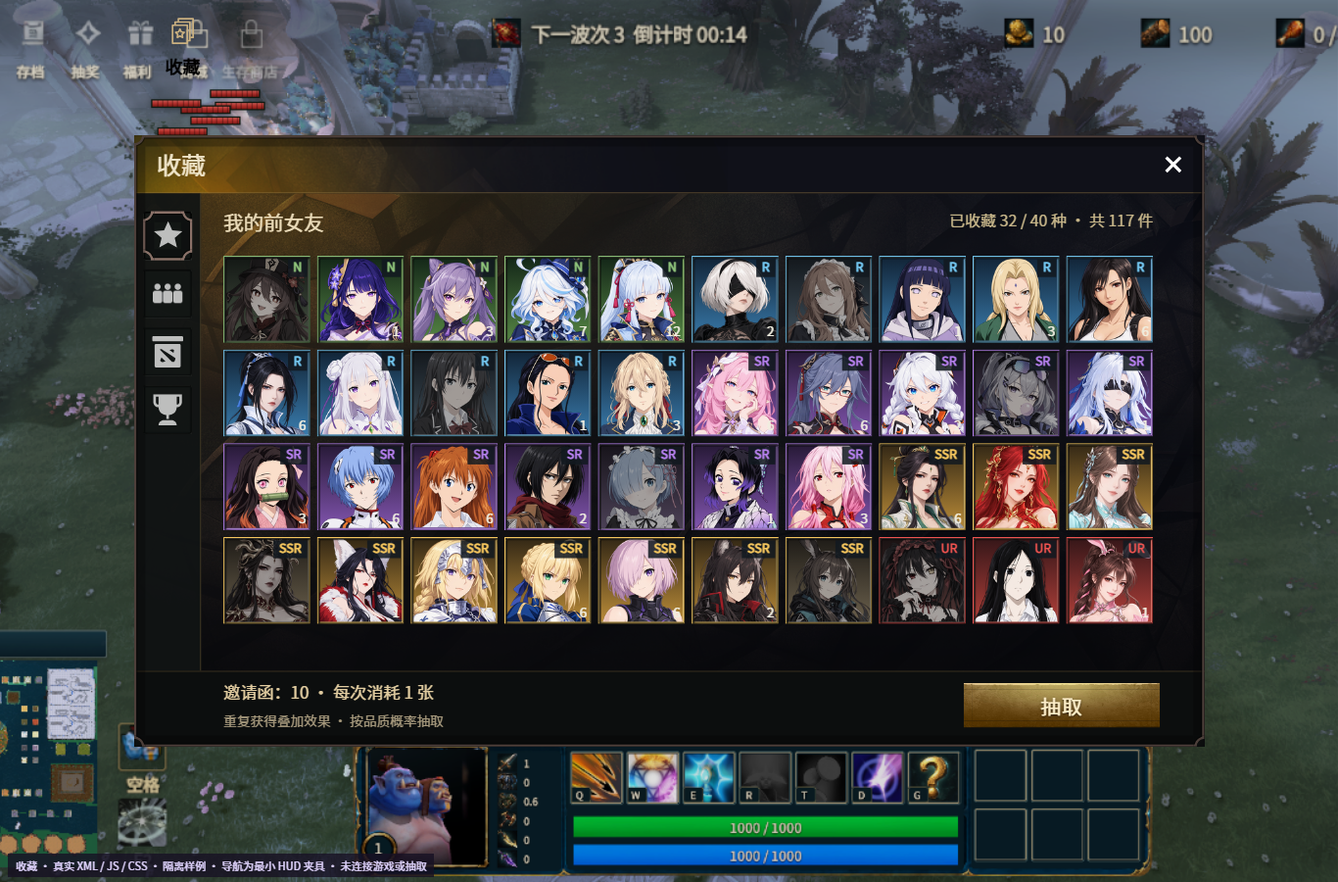
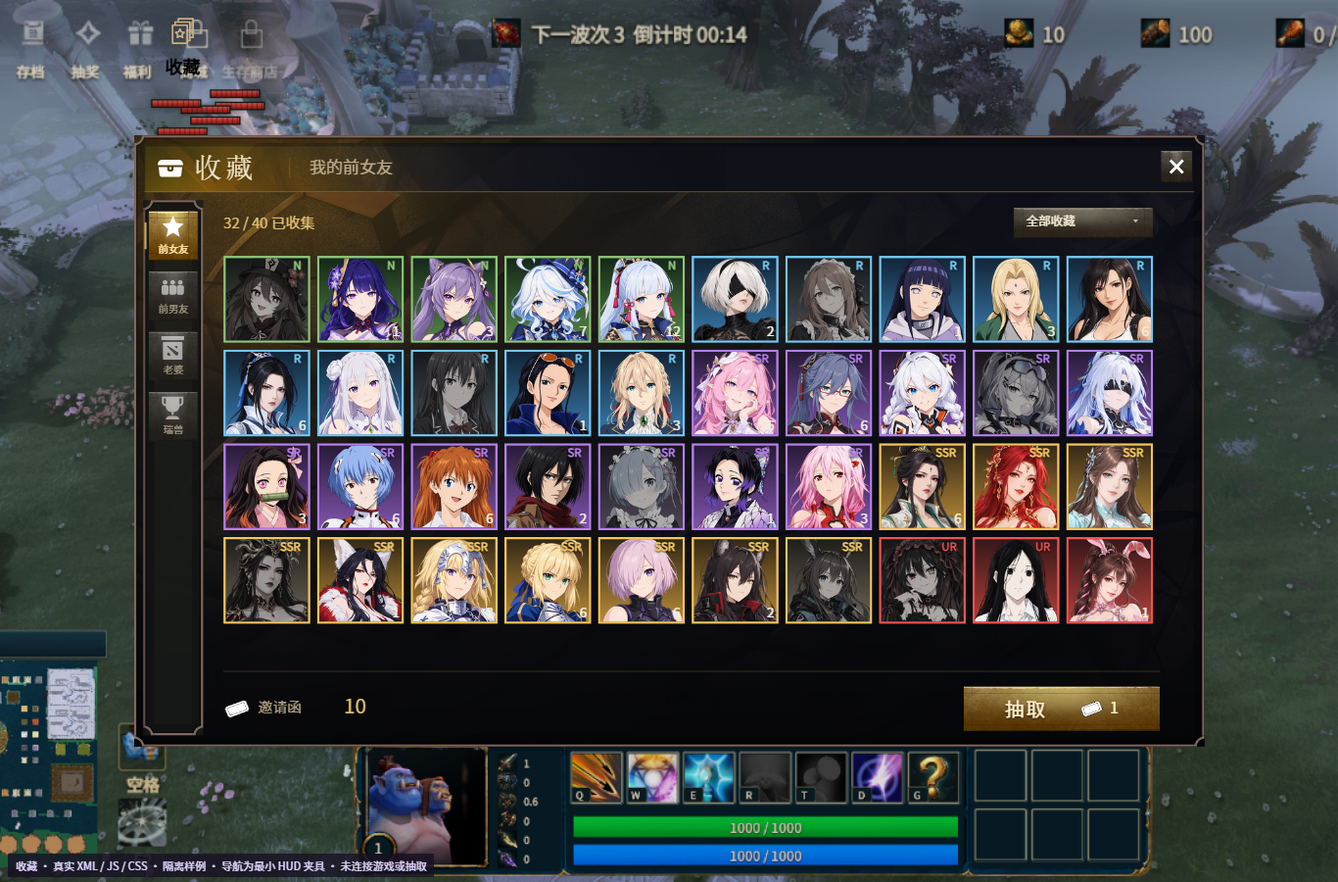
feat(ui): install approved collection design and ownership filters

diff --git a/panorama/src/scripts/custom_game/collection_gw2.js b/panorama/src/scripts/custom_game/collection_gw2.js
@@ -3,7 +3,7 @@
 var cfg=GameUI.CustomUIConfig(),U=cfg.SurvivalUI,A=cfg.ArchiveHandoff,root=$.GetContextPanel();
 if(!U||!A)return;
 if(cfg.SurvivalCollection&&cfg.SurvivalCollection.Dispose)cfg.SurvivalCollection.Dispose();
-var P=cfg.CollectionGW2Data||{},size=[960,548],fitReference=[1200,778],life=U.Lifecycle(),viewLife=U.Lifecycle(),highlightLife=U.Lifecycle();
+var size=[960,548],fitReference=[1200,778],life=U.Lifecycle(),viewLife=U.Lifecycle(),highlightLife=U.Lifecycle();
 var columns=10,slotSize=78,portraitSize=76,pitch=84,rowsPerPage=4;
 var gridWidth=(columns-1)*pitch+slotSize,gridHeight=(rowsPerPage-1)*pitch+slotSize;
 // Intent and authoritative caches outlive an individual layout/script instance.
@@ -13,10 +13,11 @@ var shared=cfg.SurvivalCollectionState||(cfg.SurvivalCollectionState={pages:{},v
 // Migrate only the cached view: an unresolved purchase keeps its original nonce.
 if(shared.raritySchema!==1){shared.pages={};shared.versions={};shared.raritySchema=1;}
 var active=true,opened=false,current="ex",assemblies={},resync={},fetchJob=null,fetching=false;
-var canvas,grid,gridBody,empty,draw,drawText,tickets,summary,result,tooltip,tipPanel;
+var canvas,grid,gridBody,empty,draw,drawText,drawCost,tickets,currencyName,summary,result,tooltip,tipPanel,ownershipFilter=0;
 var rewardHighlight=null;
 var scale=1,cardsKey="",visibleRows=[],slots=[],tabs={},nodes={},api,createdRoots=[];
 var names={ex:"我的前女友",friend:"我的前男友",wife:"我的老婆",beast:"瑞兽赐福"};
+var shortNames={ex:"前女友",friend:"前男友",wife:"老婆",beast:"瑞兽"},filterNames=["全部收藏","已拥有","未拥有"];
 var rarityColors={UR:"#ef5350",SSR:"#f5c65e",SR:"#b680ee",R:"#74c8f2",N:"#8fc47b"};
 function rarity(item){var quality=String(item.quality||"").trim().toUpperCase(),recognized=Object.prototype.hasOwnProperty.call(rarityColors,quality);return {quality:recognized?quality:"",color:recognized?rarityColors[quality]:"#88939b"};}
 function valid(n){return n&&(!n.IsValid||n.IsValid());}
@@ -24,8 +25,6 @@ function p(id){return valid(root)?root.FindChildTraverse(id):null;}
 function make(type,parent,id,cls){var n=$.CreatePanel(type,parent,id||"");if(cls)n.AddClass(cls);if(id)nodes[id]=n;return n;}
 function style(n,values){Object.keys(values).forEach(function(k){if(n.style[k]!==values[k])n.style[k]=values[k];});}
 function rect(n,x,y,w,h){style(n,{position:x+"px "+y+"px 0px",width:w+"px",height:h+"px",margin:"0px",padding:"0px",horizontalAlign:"left",verticalAlign:"top"});}
-function skin(n,key){var a=P.assets&&P.assets[key];if(a)style(n,{backgroundImage:'url("'+a.file+'")',backgroundColor:"transparent",backgroundSize:"100% 100%",backgroundRepeat:"no-repeat"});}
-function art(parent,key,x,y,w,h,id){var n=make("Panel",parent,id,"CollectionGW2Art");rect(n,x,y,w,h);n.hittest=false;n.hittestchildren=false;skin(n,key);return n;}
 // Source pixels are cropped into nine UV regions. Fixed corners never follow
 // the host's aspect ratio; only the center and straight edges expand.
 var goldArt={
@@ -45,6 +44,7 @@ function nine(parent,key,x,y,w,h,cls){
  return n;
 }
 function label(parent,text,x,y,w,h,font,color,id){var n=make("Label",parent,id,"CollectionGW2Text");rect(n,x,y,w,h);n.text=String(text===undefined?"":text);n.hittest=false;style(n,{fontSize:font+"px",color:color||"#dfdfd6",fontFamily:'"Source Han Sans SC"',fontWeight:"normal",fontStyle:"normal",textShadow:"none",whiteSpace:"nowrap",textOverflow:"ellipsis"});return n;}
+function image(parent,uri,x,y,w,h,id,cls){var n=make("Image",parent,id,cls);rect(n,x,y,w,h);n.SetImage(uri);n.hittest=false;n.hittestchildren=false;return n;}
 function array(v){return Array.isArray(v)?v:Object.keys(v||{}).sort(function(a,b){return Number(a)-Number(b);}).map(function(k){return v[k];});}
 function copy(v){return JSON.parse(JSON.stringify(v));}
 function known(v){return v!==undefined&&v!==null&&String(v).trim()!==""&&isFinite(Number(v))&&Number(v)>=0;}
@@ -62,36 +62,49 @@ style(scrim,{backgroundColor:"#00000022"});
 style(win,{width:size[0]+"px",height:size[1]+"px",horizontalAlign:"center",verticalAlign:"center",flowChildren:"none",backgroundColor:"#111413",backgroundImage:"none",border:"0px",boxShadow:"none",padding:"0px",margin:"0px",overflow:"noclip",transformOrigin:"50% 50%"});
 canvas=make("Panel",win,"CollectionGW2Canvas","CollectionGW2Canvas");rect(canvas,0,0,size[0],size[1]);canvas.hittest=false;canvas.hittestchildren=true;
 
-var background=make("Panel",canvas,"CollectionGW2Background","CollectionGW2Art");rect(background,0,0,size[0],size[1]);background.hittest=false;background.hittestchildren=false;style(background,{backgroundImage:'url("s2r://panorama/images/dota_plus/dota_plus_background_texture_large_png.vtex")',backgroundSize:"cover",backgroundRepeat:"no-repeat",opacity:"1",backgroundColor:"#111413"});
-// Flat regional tints sit over the opaque texture without raised plates.
-var header=make("Panel",canvas,"CollectionGW2Header","CollectionGW2FlatRegion");rect(header,0,0,size[0],52);style(header,{backgroundImage:'url("s2r://panorama/images/dota_plus/dota_plus_horizontal_banner_background_png.vtex")',backgroundSize:"cover",backgroundColor:"#111414e8",borderBottom:"1px solid #92764288"});header.hittest=false;
-var sidebar=make("Panel",canvas,"CollectionGW2Sidebar","CollectionGW2FlatRegion");rect(sidebar,0,52,60,size[1]-120);style(sidebar,{backgroundImage:"none",backgroundColor:"#111414e8",borderRight:"1px solid #92764255"});sidebar.hittest=false;
-var footer=make("Panel",canvas,"CollectionGW2Footer","CollectionGW2FlatRegion");rect(footer,0,size[1]-68,size[0],68);style(footer,{backgroundImage:"none",backgroundColor:"#0c0e0ee8",borderTop:"1px solid #92764255"});footer.hittest=false;
+var background=make("Panel",canvas,"CollectionGW2Background","CollectionGW2Art");rect(background,0,0,size[0],size[1]);background.hittest=false;background.hittestchildren=false;style(background,{backgroundImage:'url("s2r://panorama/images/dota_plus/dota_plus_background_texture_large_png.vtex")',backgroundSize:"cover",backgroundPosition:"30% 50%",backgroundRepeat:"no-repeat",opacity:"1",backgroundColor:"#111413"});
+var header=make("Panel",canvas,"CollectionGW2Header","CollectionGW2FlatRegion");rect(header,9,7,size[0]-18,44);style(header,{backgroundImage:'url("s2r://panorama/images/dota_plus/dota_plus_horizontal_banner_background_png.vtex")',backgroundSize:"cover",backgroundColor:"#111414e8",borderBottom:"1px solid #92764288"});header.hittest=false;
+var sidebar=make("Panel",canvas,"CollectionGW2Sidebar","CollectionGW2FlatRegion");rect(sidebar,8,58,54,size[1]-68);style(sidebar,{backgroundImage:"none",backgroundColor:"#191b19d9"});sidebar.hittest=false;
+nine(sidebar,"frame",0,0,54,size[1]-68,"CollectionGoldRailFrame");
+var footer=make("Panel",canvas,"CollectionGW2Footer","CollectionGW2FlatRegion");rect(footer,80,size[1]-68,size[0]-120,68);style(footer,{backgroundImage:"none",backgroundColor:"transparent",borderTop:"1px solid #92764255"});footer.hittest=false;
 var windowFrame=nine(canvas,"frame",0,0,size[0],size[1],"CollectionGoldWindowFrame");
-label(canvas,"收藏",20,12,size[0]-84,30,22,"#f0e5c9","CollectionGW2Title");
-var closeButton=make("Button",canvas,"CollectionGW2Close","CollectionGW2Button");rect(closeButton,size[0]-42,12,28,28);style(closeButton,{backgroundImage:"none",backgroundColor:"transparent",border:"0px"});
-var closeIcon=make("Image",closeButton,"CollectionGW2CloseIcon");rect(closeIcon,5,5,18,18);closeIcon.SetImage("file://{images}/control_icons/24px/x_close.svg");closeIcon.hittest=false;closeIcon.hittestchildren=false;
+image(canvas,"file://{images}/control_icons/24px/treasure.svg",21,18,23,23,"CollectionGW2Mark");
+var title=label(canvas,"收藏",54,14,70,30,25,"#f0e5c9","CollectionGW2Title");style(title,{fontFamily:'"SimSun"',letterSpacing:"3px",fontWeight:"semi-bold"});
+var divider=make("Panel",canvas,"CollectionGW2HeaderDivider");rect(divider,139,20,1,18);style(divider,{backgroundColor:"#ac8e4d49"});divider.hittest=false;
+label(canvas,"",157,19,300,22,15,"#b8aa88","CollectionGW2Category");
+var closeButton=make("Button",canvas,"CollectionGW2Close","CollectionGW2Button");rect(closeButton,size[0]-39,14,28,28);style(closeButton,{backgroundImage:"none",backgroundColor:"transparent",border:"0px"});
+nine(closeButton,"button",0,0,28,28,"CollectionGoldQuietControl");
+image(closeButton,"file://{images}/control_icons/24px/x_close.svg",6,6,16,16,"CollectionGW2CloseIcon");
 closeButton.hittestchildren=false;closeButton.SetPanelEvent("onactivate",function(){if(alive())shell.RequestClose("button");});
 scrim.SetPanelEvent("onactivate",function(){if(alive())shell.RequestClose("scrim");});
 Object.keys(names).forEach(function(id,i){
- var tab=make("Button",canvas,"CollectionGW2Tab_"+id,"CollectionGW2Tab");rect(tab,8,68+i*52,44,44);style(tab,{backgroundImage:"none",backgroundColor:"#121614a0",border:"0px"});tab.hittestchildren=false;
- nine(tab,"slot",0,0,44,44,"CollectionGoldTabFrame");
- var selectedArt=nine(tab,"frame",0,0,44,44,"CollectionGW2TabSelected");selectedArt.hittest=false;
- var icon=make("Image",tab,"");rect(icon,8,8,28,28);icon.SetImage("file://{images}/control_icons/"+({ex:"24px/star.svg",friend:"friends.png",wife:"24px/rewards.svg",beast:"24px/trophy.svg"}[id]));style(icon,{opacity:"0.72"});icon.hittest=false;
+ var tab=make("Button",canvas,"CollectionGW2Tab_"+id,"CollectionGW2Tab");rect(tab,13,68+i*54,44,44);style(tab,{backgroundImage:"none",backgroundColor:"transparent",border:"0px"});tab.hittestchildren=false;
+ nine(tab,"button",0,0,44,44,"CollectionGoldTabSkin");
+ var selectedArt=make("Panel",tab,"","CollectionGW2TabSelected");rect(selectedArt,-4,10,2,24);style(selectedArt,{backgroundColor:"#debc6f"});selectedArt.hittest=false;
+ image(tab,"file://{images}/control_icons/"+({ex:"24px/star.svg",friend:"friends.png",wife:"24px/rewards.svg",beast:"24px/trophy.svg"}[id]),11,4,21,21,"","CollectionGoldTabIcon");
+ tab.__collectionName=label(tab,shortNames[id],0,28,44,13,9,"#9f957c");style(tab.__collectionName,{textAlign:"center"});
  tab.SetPanelEvent("onactivate",function(){if(alive())select(id);});
  tab.SetPanelEvent("onmouseover",function(){if(alive()&&opened)$.DispatchEvent("DOTAShowTextTooltip",tab,names[id]);});tab.SetPanelEvent("onmouseout",function(){$.DispatchEvent("DOTAHideTextTooltip");});tabs[id]=tab;
 });
-label(canvas,"",80,66,220,26,18,"#eadbb9","CollectionGW2Category");
+var filter=make("Button",canvas,"CollectionGW2OwnershipFilter","CollectionGW2Button");rect(filter,789,65,125,27);filter.hittestchildren=false;
+nine(filter,"button",0,0,125,27,"CollectionGoldQuietControl");
+label(filter,filterNames[0],11,5,91,18,11,"#eee5ce","CollectionGW2FilterText");label(filter,"▾",104,5,12,18,11,"#c8b88d");
+filter.SetPanelEvent("onactivate",function(){if(!alive()||!opened)return;ownershipFilter=(ownershipFilter+1)%filterNames.length;clearRewardHighlight();grid.ScrollToTop();hideTooltip();render();});
 grid=make("Panel",canvas,"CollectionGW2Grid","CollectionGW2Grid");rect(grid,80,108,gridWidth,gridHeight);
 gridBody=make("Panel",grid,"CollectionGW2GridBody","CollectionGW2GridBody");rect(gridBody,0,0,gridWidth,gridHeight);
 empty=label(canvas,"",80,210,gridWidth,54,19,"#c4c7c6","CollectionGW2Empty");style(empty,{whiteSpace:"normal",textAlign:"center"});empty.visible=false;
-summary=label(canvas,"",310,68,size[0]-356,22,14,"#c6b589","CollectionGW2Summary");style(summary,{textAlign:"right"});
-tickets=label(canvas,"",80,size[1]-58,size[0]-310,22,15,"#e1cca0","CollectionGW2Tickets");
-result=label(canvas,"",80,size[1]-31,size[0]-310,18,12,"#a5987c","CollectionGW2Result");
-draw=make("Button",canvas,"CollectionGW2Draw","CollectionGW2Button CollectionGW2Draw");rect(draw,size[0]-216,size[1]-57,176,40);style(draw,{backgroundImage:"none",backgroundColor:"transparent",border:"0px",boxShadow:"none"});draw.hittestchildren=false;
+summary=label(canvas,"",80,70,600,22,13,"#debc6f","CollectionGW2Summary");
+image(canvas,"s2r://panorama/images/icon_ticket_png.vtex",80,size[1]-44,24,20,"CollectionGW2TicketIcon");
+currencyName=label(canvas,"",111,size[1]-44,72,22,13,"#aa9c7e","CollectionGW2CurrencyName");
+tickets=label(canvas,"",188,size[1]-49,100,30,18,"#debc6f","CollectionGW2Tickets");
+result=label(canvas,"",300,size[1]-43,420,26,12,"#a5987c","CollectionGW2Result");
+draw=make("Button",canvas,"CollectionGW2Draw","CollectionGW2Button CollectionGW2Draw");rect(draw,size[0]-216,size[1]-54,176,40);style(draw,{backgroundImage:"none",backgroundColor:"transparent",border:"0px",boxShadow:"none"});draw.hittestchildren=false;
 nine(draw,"button",0,0,176,40,"CollectionGoldPrimary");
 var drawHover=make("Panel",draw,"","CollectionGW2Hover");rect(drawHover,0,0,176,40);style(drawHover,{backgroundColor:"#fff1bf0c",border:"1px solid #e8ce8555"});drawHover.hittest=false;
-drawText=label(draw,"抽取",0,0,176,40,18,"#fff0ca","CollectionGW2DrawText");style(drawText,{width:"100%",height:"fit-children",horizontalAlign:"center",verticalAlign:"center",textAlign:"center",textShadow:"0px 1px 2px #1a1208"});
+drawText=label(draw,"抽取",24,9,64,24,17,"#fff0ca","CollectionGW2DrawText");style(drawText,{textAlign:"center",textShadow:"0px 1px 2px #1a1208"});
+drawCost=make("Panel",draw,"CollectionGW2DrawCost");rect(drawCost,104,10,52,22);drawCost.hittest=false;drawCost.hittestchildren=false;
+image(drawCost,"s2r://panorama/images/icon_ticket_png.vtex",0,1,21,18,"CollectionGW2DrawTicketIcon");
+label(drawCost,"—",27,0,25,22,14,"#fff0ca","CollectionGW2DrawCostText");
 draw.SetPanelEvent("onactivate",drawOne);
 tooltip=cfg.SurvivalArchiveTooltip.Create({parent:canvas,root:root,idPrefix:"CollectionGW2Tooltip",compact:true,collectionRarity:true,isAlive:alive,isActive:function(){return opened;},
  skin:{backing:{file:"s2r://panorama/images/hud/reborn/bg_tooltip_psd.vtex",size:[500,452],nine_slice_ltrb:[12,12,12,12],edge_ltrb:[6,6,6,6]},frame:{file:goldArt.frame.uri,size:goldArt.frame.size,nine_slice_ltrb:goldArt.frame.cut,edge_ltrb:[8,8,8,8],fill:false}},
@@ -143,8 +156,8 @@ function highlightReward(itemId){
  highlightLife.Later(0.65,function(){if(alive())clearRewardHighlight();});
 }
 function renderCards(rows){
- var signature=JSON.stringify([current,rows]);if(signature===cardsKey)return;cardsKey=signature;hideTooltip();gridBody.RemoveAndDeleteChildren();slots=[];
- visibleRows=rows.slice();
+ var signature=JSON.stringify([current,ownershipFilter,rows]);if(signature===cardsKey)return;cardsKey=signature;hideTooltip();gridBody.RemoveAndDeleteChildren();slots=[];
+ visibleRows=rows.filter(function(item){return ownershipFilter===0||countKnown(item)&&(ownershipFilter===1?Number(item.count)>0:Number(item.count)===0);});
  var count=visibleRows.length,rowCount=Math.ceil(count/columns);rect(grid,80,108,gridWidth+(rowCount>rowsPerPage?8:0),gridHeight);rect(gridBody,0,0,gridWidth,Math.max(gridHeight,rowCount?(rowCount-1)*pitch+slotSize:0));
  for(var i=0;i<count;i++){
   var item=visibleRows[i],grade=rarity(item),card=make("Button",gridBody,"CollectionGW2Item_"+item.id,"CollectionGW2Slot");rect(card,(i%columns)*pitch,Math.floor(i/columns)*pitch,slotSize,slotSize);style(card,{backgroundImage:"none",border:"0px",backgroundColor:"transparent",boxShadow:"none"});card.hittest=true;card.hittestchildren=false;card.__collectionItem=item;
@@ -152,9 +165,10 @@ function renderCards(rows){
   var backing=make("Panel",card,"","CollectionGoldSlotBacking");rect(backing,0,0,slotSize,slotSize);style(backing,{backgroundColor:"#090d0d"});backing.hittest=false;
   rewardIcon(card,item);card.SetHasClass("CollectionGW2Unowned",countKnown(item)&&Number(item.count)===0);card.SetHasClass("CollectionGW2Unknown",!countKnown(item));
   card.SetHasClass("CollectionGW2Unavailable",Number(item.draw_enabled)===0);
-  var frame=nine(card,"slot",0,0,slotSize,slotSize,"CollectionGW2SlotFrame");style(frame,{border:"1px solid "+grade.color});frame.hittest=false;frame.hittestchildren=false;
+  nine(card,"slot",0,0,slotSize,slotSize,"CollectionGW2SlotFrame");
+  var rim=make("Panel",card,"","CollectionGoldQualityRim");rect(rim,0,0,slotSize,slotSize);style(rim,{border:"2px solid "+grade.color});rim.hittest=false;rim.hittestchildren=false;
   var hover=make("Panel",card,"","CollectionGW2Hover");rect(hover,3,3,slotSize-6,slotSize-6);style(hover,{backgroundImage:"none",backgroundColor:"transparent",border:"1px solid "+grade.color});hover.hittest=false;hover.hittestchildren=false;
-  if(grade.quality){var gradeWidth=grade.quality.length===3?30:grade.quality.length===2?24:17,gradeLabel=label(card,grade.quality,slotSize-gradeWidth-3,3,gradeWidth,16,11,grade.color);gradeLabel.AddClass("CollectionGW2RarityLabel");style(gradeLabel,{textAlign:"center",fontWeight:"bold",backgroundColor:"#111820db"});}
+  if(grade.quality){var gradeWidth=grade.quality.length===3?30:grade.quality.length===2?24:17,gradeLabel=label(card,grade.quality,slotSize-gradeWidth-3,2,gradeWidth,15,10,grade.color);gradeLabel.AddClass("CollectionGW2RarityLabel");style(gradeLabel,{textAlign:"center",fontWeight:"bold",backgroundColor:"transparent",textShadow:"0px 1px 2px #000000"});}
   var quantity=label(card,countKnown(item)?number(item.count):"—",4,slotSize-19,slotSize-8,18,12,"#f0eee0");quantity.AddClass("CollectionGW2CardLabel");quantity.visible=!countKnown(item)||Number(item.count)>0;style(quantity,{textAlign:"right"});bindCard(card,item);
   var glow=make("Panel",card,"","CollectionGW2RewardGlow");glow.AddClass("RewardGlassSurface");rect(glow,2,2,slotSize-4,slotSize-4);glow.hittest=false;glow.hittestchildren=false;
   card.__collectionRewardGlow=glow;
@@ -166,14 +180,15 @@ function bindCard(card,item){card.SetPanelEvent("onmouseover",function(){showToo
 function canDraw(){var data=shared.pages[current],s=data&&data.social;return opened&&!shared.pending&&s&&Number(data.pending)!==1&&known(s.tickets)&&known(s.draw_cost)&&Number(s.draw_cost)>0&&Number(s.tickets)>=Number(s.draw_cost)&&known(s.remaining)&&Number(s.remaining)>0;}
 function render(){
  if(!alive()||!opened)return;var data=shared.pages[current],s=data&&data.social,rows=array(data&&data.rows);
- Object.keys(tabs).forEach(function(id){tabs[id].SetHasClass("CollectionGW2Selected",id===current);});nodes.CollectionGW2Category.text=names[current];
+ Object.keys(tabs).forEach(function(id){tabs[id].SetHasClass("CollectionGW2Selected",id===current);style(tabs[id].__collectionName,{color:id===current?"#ffe2a0":"#9f957c"});});nodes.CollectionGW2Category.text=names[current];nodes.CollectionGW2FilterText.text=filterNames[ownershipFilter];
  renderCards(rows);empty.visible=!data||!visibleRows.length;
- empty.text=!data?"正在读取收藏…":"暂无收藏";
- summary.text=data?"已收藏 "+rows.filter(function(item){return countKnown(item)&&Number(item.count)>0;}).length+" / "+rows.length+" 种"+(s?" · 共 "+number(s.total)+" 件":""):"等待服务端同步";
- tickets.text=s?String(s.currency_name||"抽取券")+"："+number(s.tickets)+"  ·  每次消耗 "+number(s.draw_cost)+(current==="wife"?" 朵":" 张"):"正在读取抽取资格…";
+ empty.text=!data?"正在读取收藏…":ownershipFilter===1?"暂无已拥有的收藏":ownershipFilter===2?"暂无未拥有的收藏":"暂无收藏";
+ summary.text=data?(rows.every(countKnown)?rows.filter(function(item){return Number(item.count)>0;}).length:"—")+" / "+rows.length+" 已收集":"等待服务端同步";
+ currencyName.text=s?String(s.currency_name||"抽取券"):"抽取券";tickets.text=s?number(s.tickets):"—";nodes.CollectionGW2DrawCostText.text=s?number(s.draw_cost):"—";
  draw.enabled=!!canDraw();draw.SetHasClass("CollectionGW2Disabled",!draw.enabled);drawText.text=shared.pending?"结算中…":s&&Number(s.remaining)===0?"已全部集满":"抽取";
+ drawCost.visible=drawText.text==="抽取";rect(drawText,drawCost.visible?24:0,9,drawCost.visible?64:176,24);
  var outcome=shared.outcome&&shared.outcome.pool_id===current?shared.outcome:null;
- result.text=shared.pending?"奖励正在结算，请稍候…":outcome&&!outcome.ok?outcome.error||"抽取未完成，请稍后重试":outcome&&outcome.ok?"":s?"重复获得叠加效果 · 按品质概率抽取":"";
+ result.text=shared.pending?"奖励正在结算，请稍候…":outcome&&!outcome.ok?outcome.error||"抽取未完成，请稍后重试":"";
 }
 function request(full,category){
  if(!alive())return;fetching=true;category=category||current;
@@ -205,7 +220,7 @@ function finishDraw(intent,data){
   return countKnown(item)&&known(intent.counts[item.id])&&Number(item.count)>Number(intent.counts[item.id])&&(!name||item.name===name);
  });
  // Never highlight an unrelated row or substitute a text popup when the result
- // cannot be identified or is excluded by the current search.
+ // cannot be identified or is excluded by the ownership filter.
  if(acquired.length===1)highlightReward(acquired[0].id);
 }
 function drawOne(){
@@ -234,11 +249,11 @@ function recoverIntent(){
   GameEvents.SendCustomGameEventToServer("survival_archive_social_draw",{pool_id:pool,request_id:requestId});
  });
 }
-function select(id){if(!alive()||!names[id])return;clearRewardHighlight();current=id;grid.ScrollToTop();hideTooltip();render();if(opened&&!shared.pages[id])request(true);}
-function open(id){if(!alive())return;var wasOpen=opened;if(id&&names[id]&&id!==current){clearRewardHighlight();current=id;grid.ScrollToTop();}if(cfg.SurvivalArchive&&cfg.SurvivalArchive.IsOpen&&cfg.SurvivalArchive.IsOpen())cfg.SurvivalArchive.Close();opened=true;win.RemoveClass("ArchiveHidden");scrim.RemoveClass("ArchiveHidden");shell.Open();scale=Number(U.Fit(win,root,size[0],size[1],{reference:fitReference.slice()}))||1;render();request(!shared.pages[current]||Object.keys(resync).length>0);if(!wasOpen)recoverIntent();}
+function select(id){if(!alive()||!names[id])return;clearRewardHighlight();current=id;ownershipFilter=0;grid.ScrollToTop();hideTooltip();render();if(opened&&!shared.pages[id])request(true);}
+function open(id){if(!alive())return;var wasOpen=opened;if(id&&names[id]&&id!==current){clearRewardHighlight();current=id;ownershipFilter=0;grid.ScrollToTop();}if(cfg.SurvivalArchive&&cfg.SurvivalArchive.IsOpen&&cfg.SurvivalArchive.IsOpen())cfg.SurvivalArchive.Close();opened=true;win.RemoveClass("ArchiveHidden");scrim.RemoveClass("ArchiveHidden");shell.Open();scale=Number(U.Fit(win,root,size[0],size[1],{reference:fitReference.slice()}))||1;render();request(!shared.pages[current]||Object.keys(resync).length>0);if(!wasOpen)recoverIntent();}
 function close(){if(!active)return;opened=false;clearRewardHighlight();hideTooltip();viewLife.Cancel();if(valid(win)){shell.Close();win.AddClass("ArchiveHidden");}if(valid(scrim))scrim.AddClass("ArchiveHidden");$.DispatchEvent("DOTAHideTextTooltip");}
 function dispose(){if(!active)return;close();active=false;highlightLife.Dispose();life.Dispose();viewLife.Dispose();shell.Dispose();if(tooltip)tooltip.Dispose();if(valid(canvas))canvas.DeleteAsync(0);createdRoots.forEach(function(n){if(valid(n))n.DeleteAsync(0);});if(valid(win))win.RemoveClass("CollectionGW2Page");}
-api=cfg.SurvivalCollection={Open:open,Close:close,Toggle:function(){if(alive()){if(opened)close();else open();}},Select:select,IsOpen:function(){return alive()&&opened;},Dispose:dispose,Inspect:function(){return {open:opened,layout:"collection_gw2",canvas:size.slice(),columns:columns,portraitSize:portraitSize,category:current,search:"",rows:visibleRows.map(function(item){return {id:item.id,name:item.name,count:item.count,target:item.target};}),slots:slots.length,drawEnabled:!!draw.enabled,pending:shared.pending?copy(shared.pending):null,versions:copy(shared.versions),tooltipVisible:tooltip&&tooltip.IsVisible()};}};
+api=cfg.SurvivalCollection={Open:open,Close:close,Toggle:function(){if(alive()){if(opened)close();else open();}},Select:select,IsOpen:function(){return alive()&&opened;},Dispose:dispose,Inspect:function(){return {open:opened,layout:"collection_gw2",canvas:size.slice(),columns:columns,portraitSize:portraitSize,category:current,search:"",ownershipFilter:["all","owned","unowned"][ownershipFilter],rows:visibleRows.map(function(item){return {id:item.id,name:item.name,count:item.count,target:item.target};}),slots:slots.length,drawEnabled:!!draw.enabled,pending:shared.pending?copy(shared.pending):null,versions:copy(shared.versions),tooltipVisible:tooltip&&tooltip.IsVisible()};}};
 life.Subscribe("survival_archive_snapshot",snapshot);life.Subscribe("survival_archive_social_result",drawResult);
 win.AddClass("ArchiveHidden");scrim.AddClass("ArchiveHidden");shell.Close();
 })();

diff --git a/panorama/src/styles/custom_game/collection_gw2.css b/panorama/src/styles/custom_game/collection_gw2.css
@@ -1,11 +1,11 @@
-#CollectionWindow.CollectionGW2Page { horizontal-align:center; vertical-align:center; transform-origin:50% 50%; flow-children:none; overflow:noclip; background-image:none; background-color:#171e24; padding:0px; margin:0px; border:0px; box-shadow:none; }
+#CollectionWindow.CollectionGW2Page { horizontal-align:center; vertical-align:center; transform-origin:50% 50%; flow-children:none; overflow:noclip; background-image:none; background-color:#111413; padding:0px; margin:0px; border:0px; box-shadow:none; }
 #CollectionScrim { width:100%; height:100%; background-color:#00000022; }
 .CollectionGW2Canvas { flow-children:none; overflow:noclip; }
 .CollectionGW2Art { background-size:100% 100%; background-repeat:no-repeat; border:0px; box-shadow:none; }
 .CollectionGW2FlatRegion { flow-children:none; background-image:none; border:0px; box-shadow:none; }
 .CollectionGW2Text { font-family:"Source Han Sans SC"; font-weight:normal; font-style:normal; padding:0px; margin:0px; text-shadow:none; }
 #CollectionGW2Background { background-color:#111413; opacity:1; border:0px; box-shadow:none; }
-.CollectionGW2Tab { flow-children:none; background-color:transparent; border:0px; box-shadow:none; }
+.CollectionGW2Tab { flow-children:none; overflow:noclip; background-color:transparent; border:0px; box-shadow:none; }
 .CollectionGW2TabSelected { opacity:0; }
 .CollectionGW2Selected .CollectionGW2TabSelected { opacity:1; }
 .CollectionGW2Grid { flow-children:none; overflow:squish scroll; }
@@ -13,10 +13,10 @@
 .CollectionGW2Slot { flow-children:none; background-color:transparent; border:0px; margin:0px; padding:0px; overflow:clip; box-shadow:none; }
 .CollectionGW2Portrait { flow-children:none; overflow:clip; }
 .CollectionGW2Portrait .ArchiveArt { horizontal-align:left; vertical-align:top; margin:0px; padding:0px; }
-.CollectionGW2Unowned .CollectionGW2Portrait { saturation:.35; brightness:.68; }
+.CollectionGW2Unowned .CollectionGW2Portrait { saturation:.24; brightness:.71; }
 .CollectionGW2Unknown .CollectionGW2Portrait { saturation:.1; brightness:.5; }
 .CollectionGW2Unavailable .CollectionGW2Portrait { saturation:.1; brightness:.5; }
-.CollectionGW2SlotFrame { z-index:5; }
+.CollectionGW2SlotFrame, .CollectionGoldQualityRim { z-index:5; }
 .CollectionGW2SlotSelection { z-index:6; }
 .CollectionGW2RarityLabel, .CollectionGW2CardLabel { z-index:7; }
 .CollectionGW2Slot:hover .CollectionGW2PortraitImage { brightness:1.12; }
@@ -43,15 +43,18 @@
 }
 
 /* Official black/gold parts: fixed corners and stretchable edges. */
-.CollectionGoldNine, .CollectionGoldWindowFrame, .CollectionGoldTabFrame, .CollectionGoldPrimary, .CollectionGoldNinePiece { flow-children:none; overflow:clip; }
+.CollectionGoldNine, .CollectionGoldWindowFrame, .CollectionGoldRailFrame, .CollectionGoldTabSkin, .CollectionGoldQuietControl, .CollectionGoldPrimary, .CollectionGoldNinePiece { flow-children:none; overflow:clip; }
 .CollectionGoldWindowFrame { z-index:90; }
-.CollectionGoldTabFrame { opacity:.55; }
-.CollectionGW2TabSelected { brightness:1.8; }
-.CollectionGW2Selected .CollectionGoldTabFrame { brightness:1.35; opacity:1; }
+.CollectionGoldWindowFrame, .CollectionGoldRailFrame { wash-color:#e7ce91; brightness:1.65; }
+.CollectionGoldTabSkin { saturation:.15; brightness:.56; }
+.CollectionGW2Selected .CollectionGoldTabSkin { saturation:1; brightness:1.16; }
+.CollectionGoldTabIcon { saturation:0; opacity:.56; }
+.CollectionGW2Selected .CollectionGoldTabIcon { saturation:1; opacity:1; }
+.CollectionGoldQuietControl { saturation:.3; brightness:.65; }
 .CollectionGW2Selected { brightness:1; }
 .CollectionGW2Tab:hover { brightness:1.12; }
 .CollectionGW2SlotFrame .CollectionGoldNinePiece { opacity:.8; }
 .CollectionGW2Button:hover { brightness:1.12; }
 .CollectionGW2Button:active { brightness:.88; }
-#CollectionGW2DrawText { font-weight:semi-bold; letter-spacing:1px; }
+#CollectionGW2DrawText { font-weight:semi-bold; letter-spacing:2px; }
 .CollectionGW2Tooltip .ArchiveSharedTooltipNineFrame { wash-color:#d8c394; }
